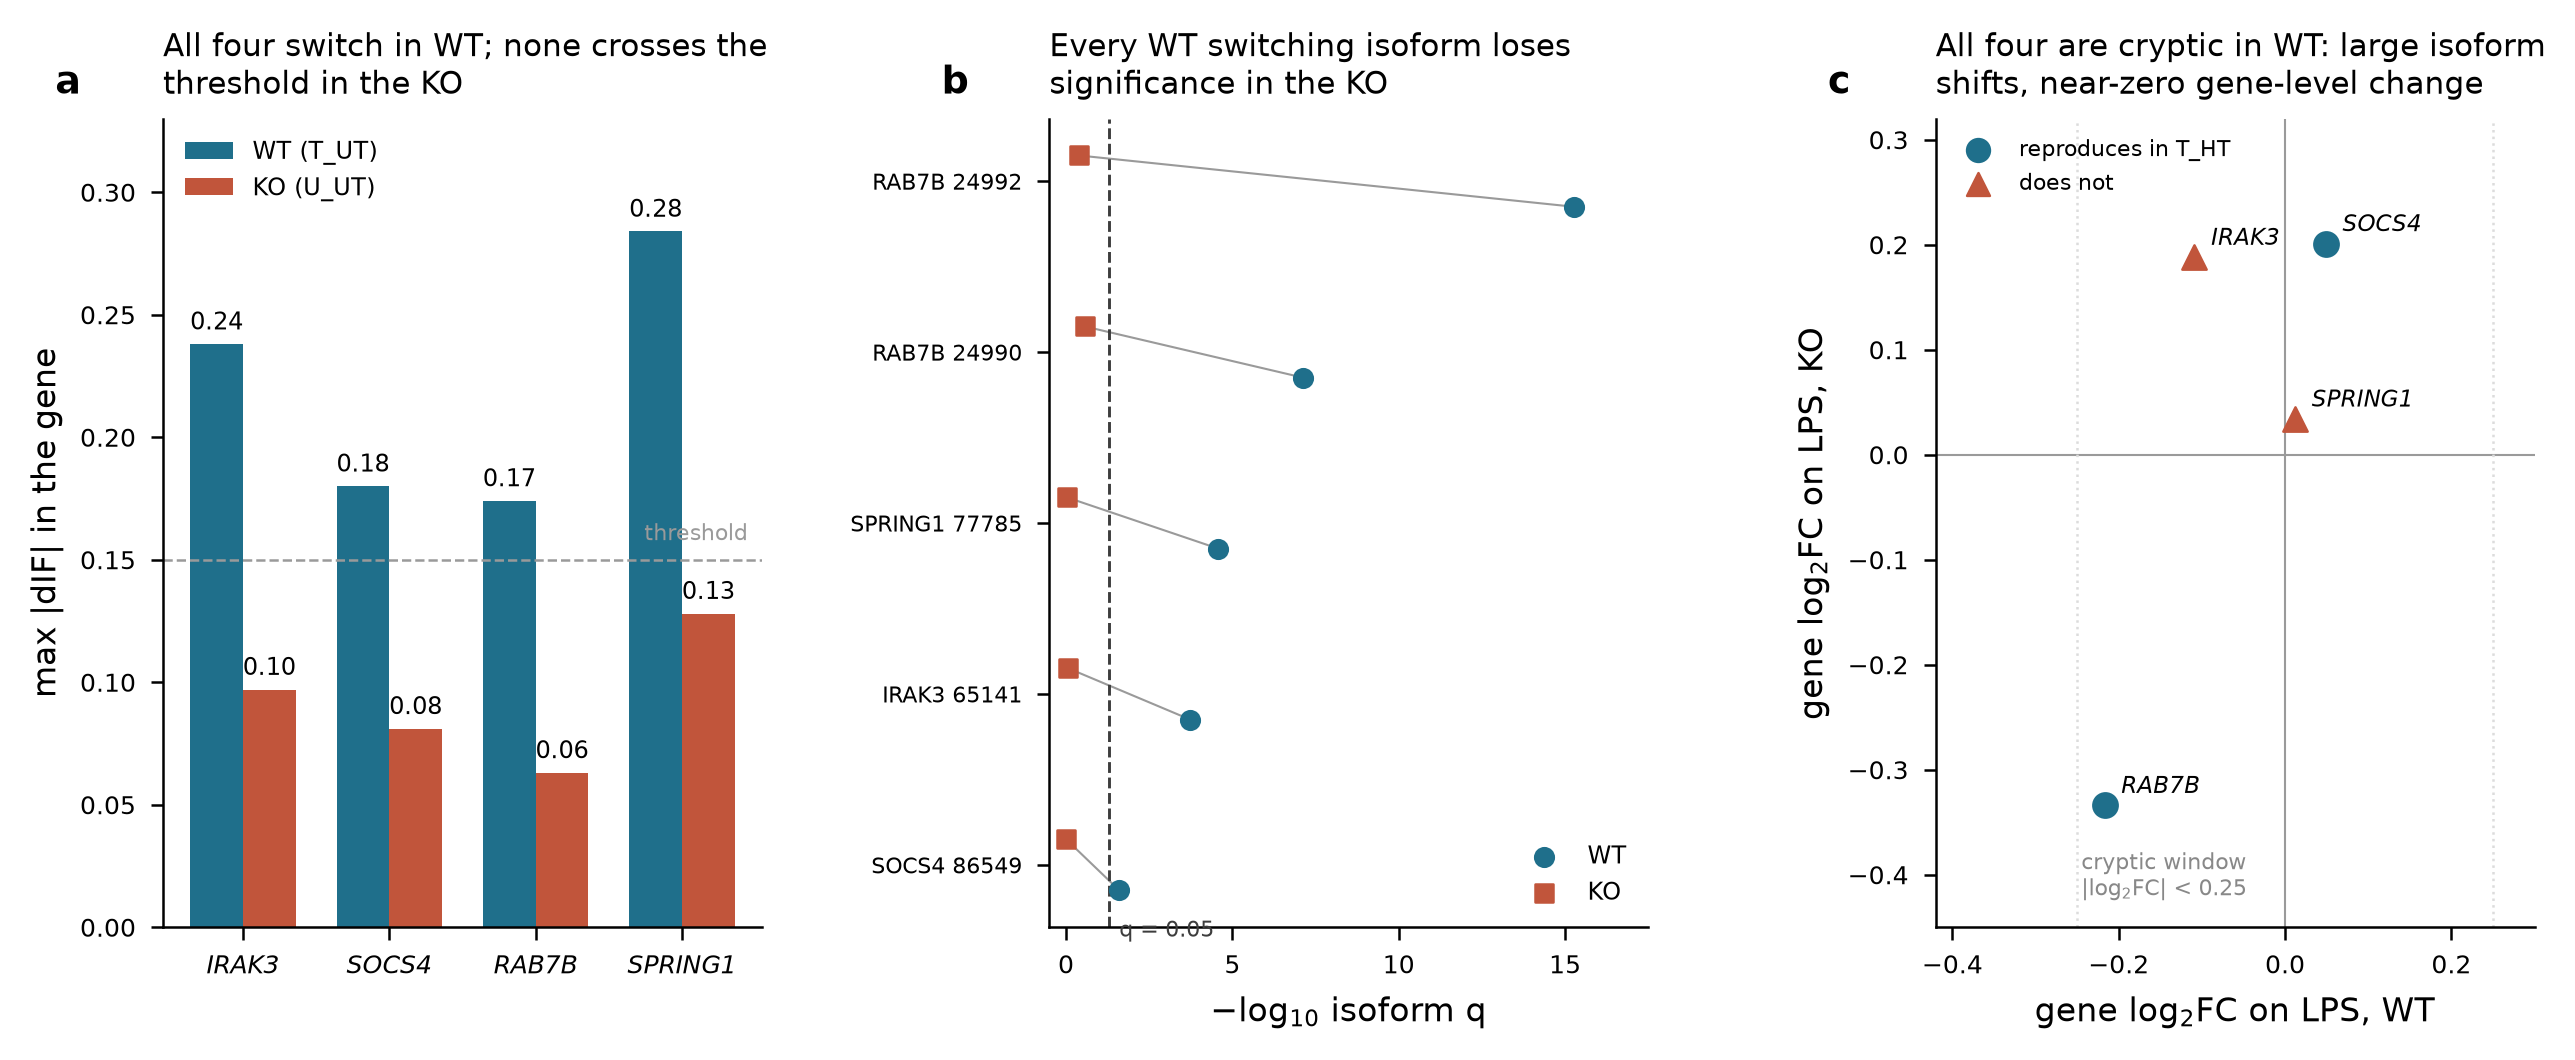
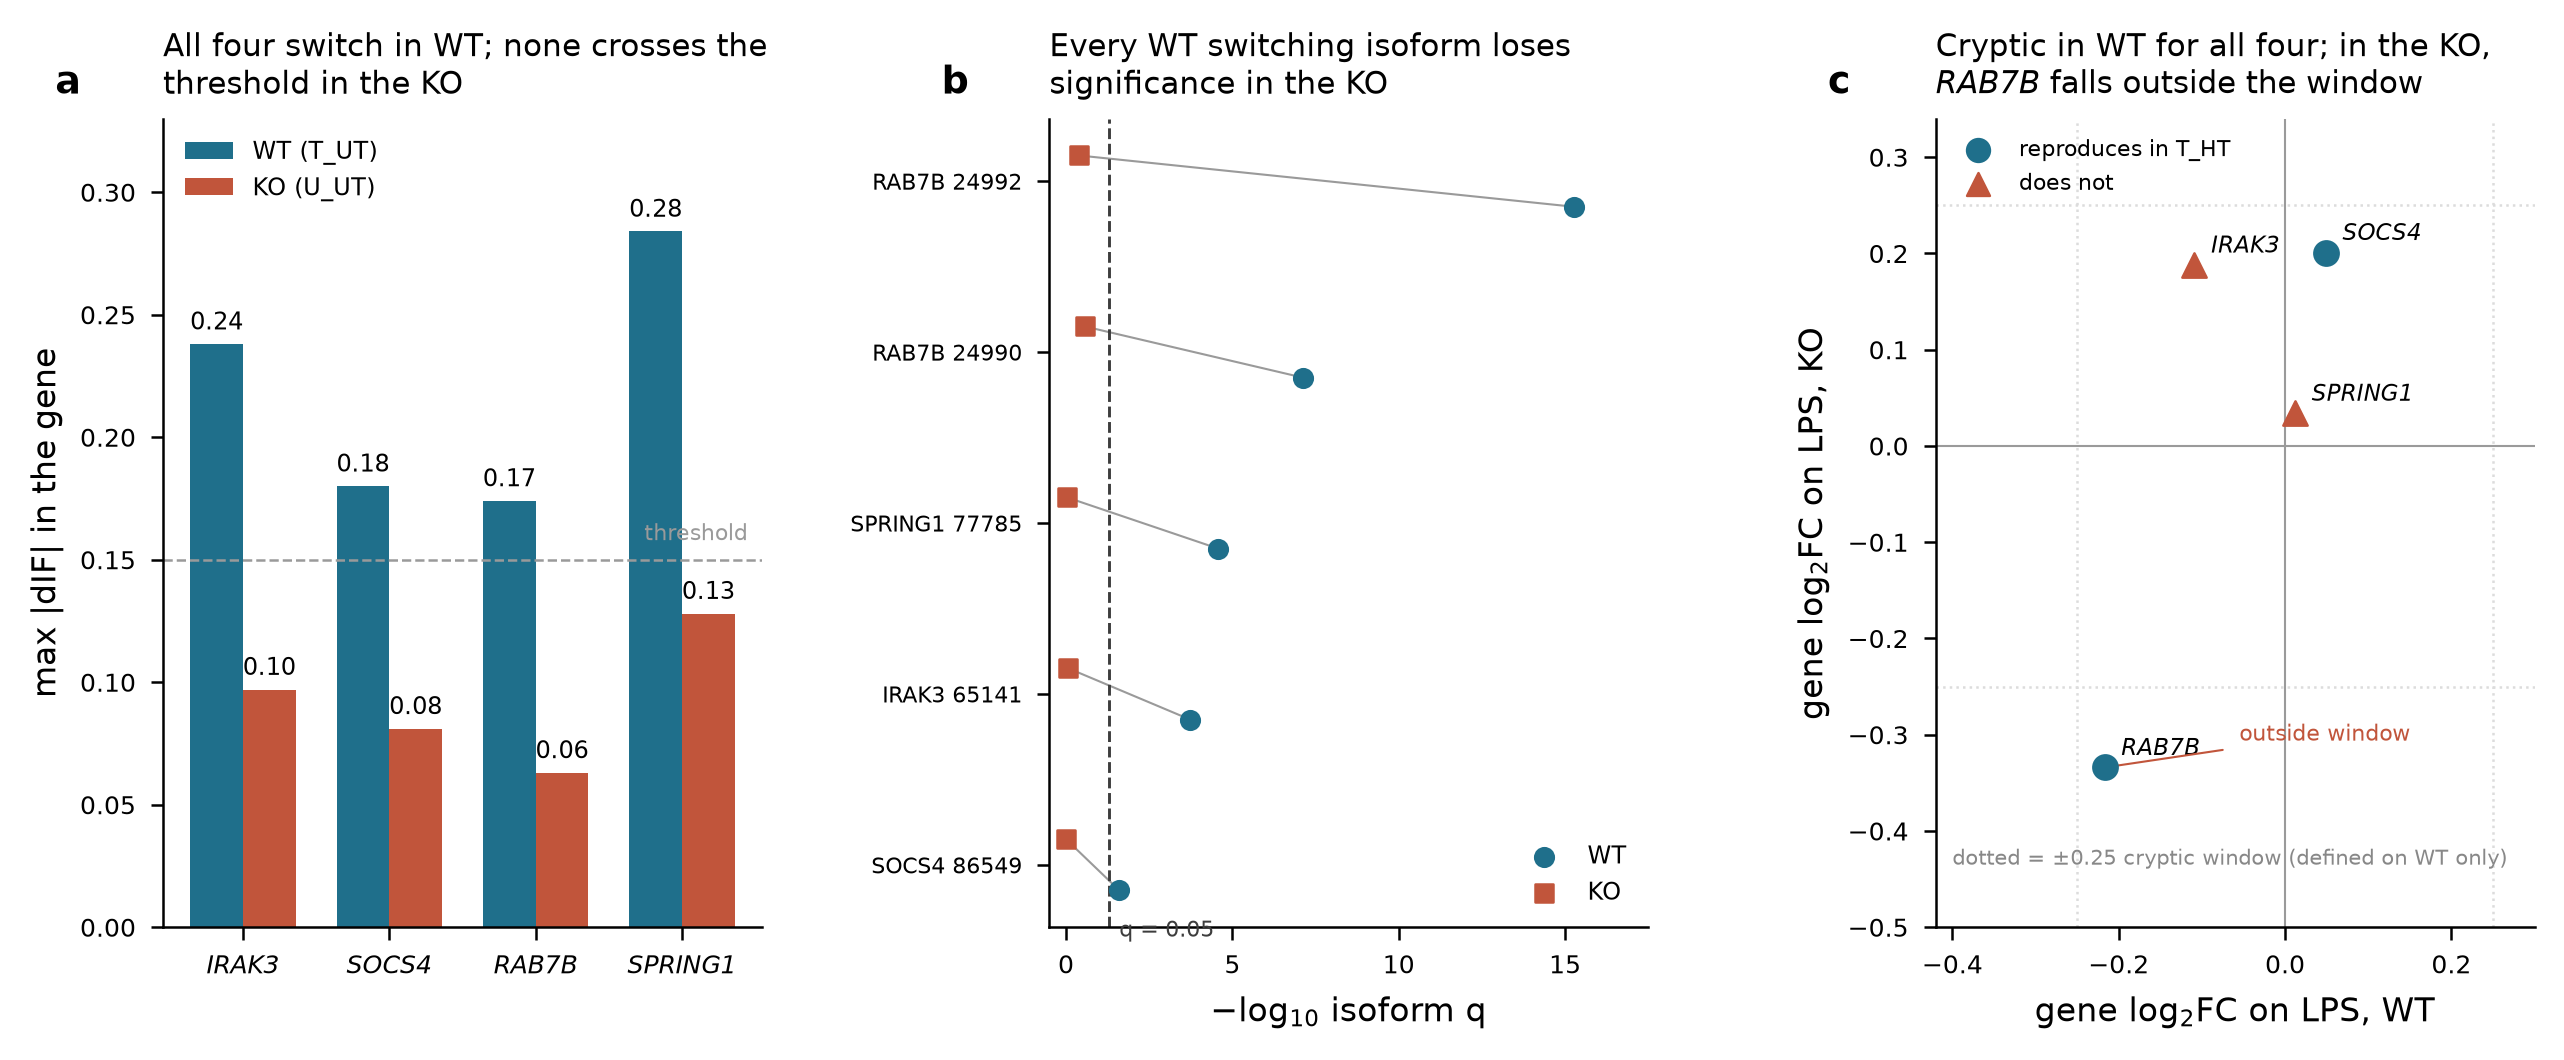
docs/external_review: fix "cryptic in both arms" — RAB7B is not
CANDIDATES.md section c claimed all four candidates are cryptic in both arms and
that the KO gene-level values "are also small". candidate_summary.csv contradicts
that for RAB7B: KO gene log2FC is -0.334, outside the +/-0.25 cryptic window the
document itself uses to define the class. The other three stay inside (IRAK3
+0.188, SOCS4 +0.201, SPRING1 +0.034).

Corrected to "all four cryptic in WT; three of the four also in the KO", with
RAB7B's value named and the reason flagged — it is also the gene with the largest
absolute abundance difference between arms (715 vs 194, 3.7x), so its KO
behaviour is the least comparable of the four on both counts.

The cryptic class was only ever DEFINED on the WT contrast, so this does not
remove RAB7B from the candidate set; it means "cryptic in both arms" must not be
stated as a property of the set. C5 panel c retitled and annotated to match, with
the +/-0.25 window drawn on both axes.

diff --git a/docs/external_review/CANDIDATES.md b/docs/external_review/CANDIDATES.md
@@ -57,9 +57,18 @@ and n = 5 with no correction for having chosen the genes on the WT outcome. It i
 with the KO's blunted response but is not independent evidence for it. Under the project's own
 convention this is a `selconf_`-class observation: descriptive only.
 
-**c. All four are cryptic in both arms.** Gene-level LPS log2FC stays inside ±0.25 in WT for
-all four, and the KO values are also small — so the "invisible to differential expression"
-property is not an artefact of one contrast.
+**c. All four are cryptic in WT; three of the four are also cryptic in the KO.** Gene-level LPS
+log2FC stays inside the ±0.25 cryptic window in WT for all four (IRAK3 −0.109, SOCS4 +0.049,
+RAB7B −0.217, SPRING1 +0.012). In the KO, **RAB7B falls outside it at −0.334** — the other
+three stay in (IRAK3 +0.188, SOCS4 +0.201, SPRING1 +0.034). So the "invisible to differential
+expression" property carries over to the second contrast for three genes but not for RAB7B,
+whose gene-level LPS response in the KO is large enough to be picked up by gene-level DE.
+
+RAB7B is also the gene whose absolute abundance differs most between arms (715 in WT vs 194 in
+the KO, 3.7x), so its KO behaviour is the least comparable of the four on both counts. Note the
+cryptic classification was only ever *defined* on the WT contrast — the KO column is a
+descriptive check, not a selection criterion — so this does not remove RAB7B from the candidate
+set. It does mean "cryptic in both arms" must not be stated as a property of the set.
 
 **Reproduction in the independent T_HT annotation:** SOCS4 and RAB7B reproduce as switching;
 SPRING1 is testable but does **not**; IRAK3 is **not testable** there (its gene expression is
